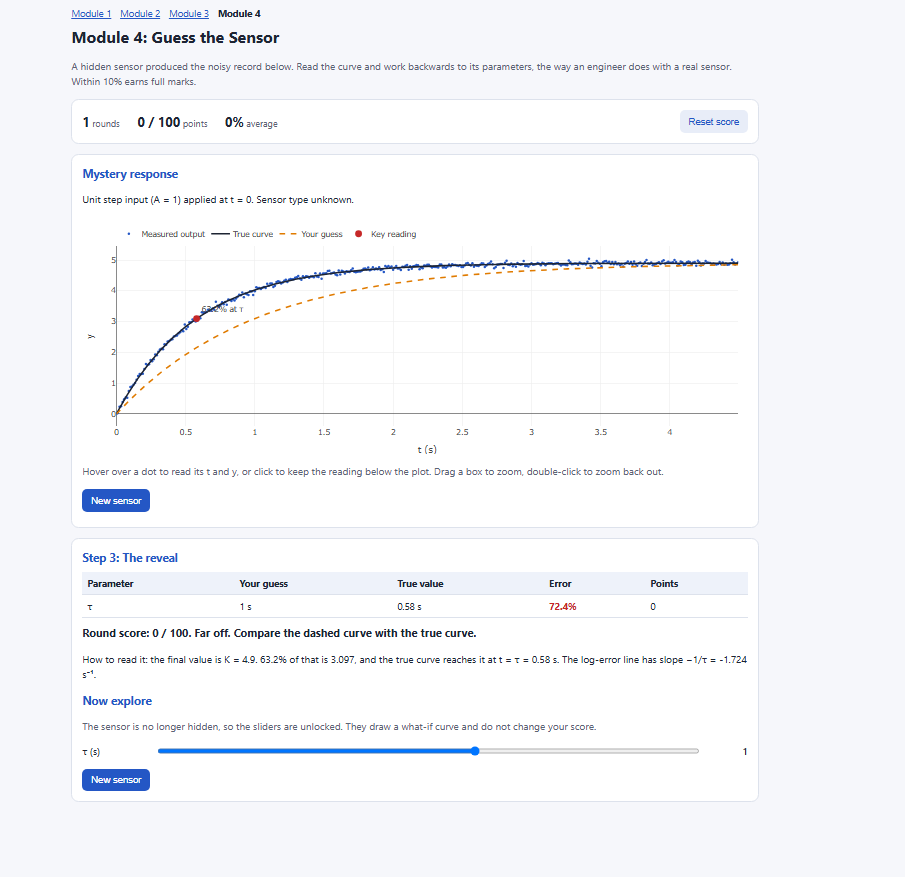
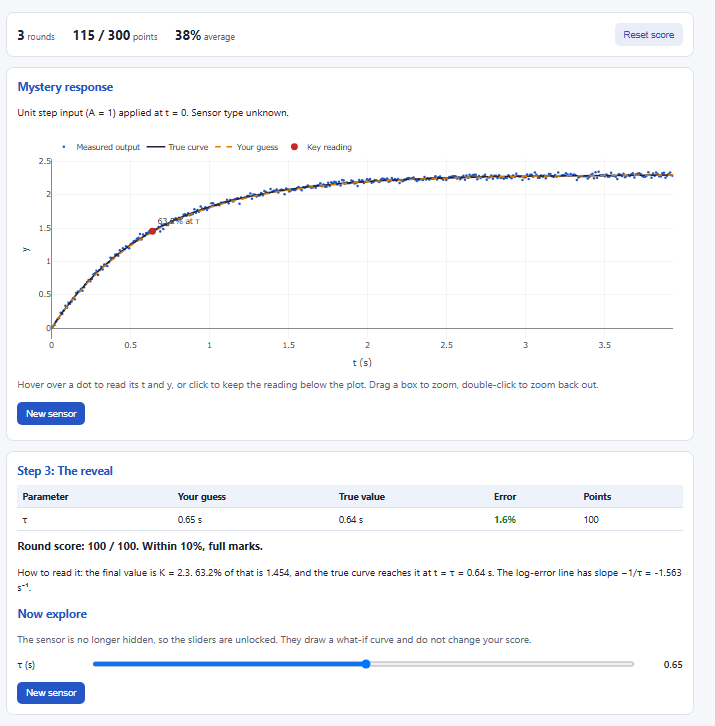
Add Module 4 step screenshots

diff --git a/README.md b/README.md
@@ -55,7 +55,9 @@ Homework 1 for ENCS4380 Interfacing Techniques, Birzeit University.
 ![Module 3 validation checks](<screenshots/module3(4).png>)
 
 ### Module 4: Guess the Sensor
-![Module 4 reveal with true curve and score](screenshots/module4.png)
+![Module 4 step 1: mystery curve and prediction](<screenshots/module4(1).png>)
+![Module 4 step 2: log-error plot and estimate](<screenshots/module4(2).png>)
+![Module 4 step 3: reveal with true curve and score](screenshots/module4.png)
 
 ## Built with
 
